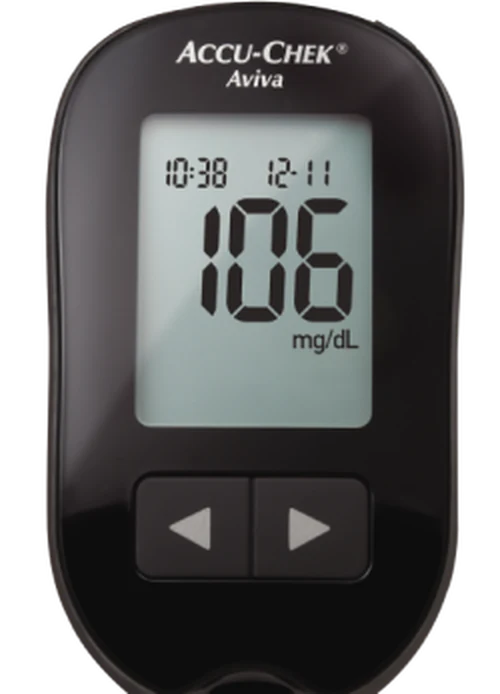
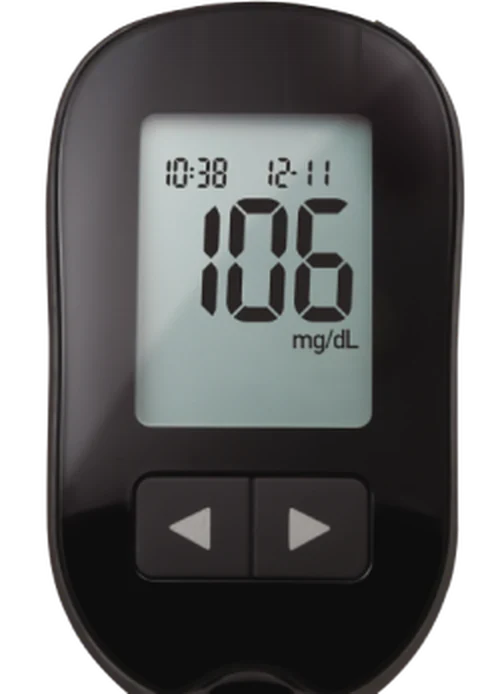
Einsatz-Creator 1.3.2: keine Marken mehr sichtbar
- Herstellerlogos und Typenbezeichnungen aus Defi- und BZ-Geraetefoto entfernt
- Elektrode ohne Aufdruck, Alkoholtupfer als neutrale Verpackung
- Medikamente mit Wirkstoffnamen statt Handelsnamen, Zervikalstuetze statt
  Stifneck, Formschiene statt SAM Splint, Bohrsystem statt EZ-IO

Claude-Session: https://claude.ai/code/session_01E8N9uzoQtQbX4MZMTftENU

Changed region(s): [[0.36, 0.0605, 0.69, 0.1513]]

diff --git a/Nordverband/live-creator/einsatz_creator/html/app.js b/Nordverband/live-creator/einsatz_creator/html/app.js
@@ -1935,14 +1935,14 @@ function ekgPaper(ctx, W, H) {
     for (let y = 0; y <= H; y += 5) { ctx.strokeStyle = y % 25 === 0 ? 'rgba(220, 70, 70, 0.45)' : 'rgba(230, 120, 120, 0.18)'; ctx.lineWidth = y % 25 === 0 ? 1 : 0.6; ctx.beginPath(); ctx.moveTo(0, y); ctx.lineTo(W, y); ctx.stroke(); }
 }
 
-/* Ergebnis: Rhythmus auf dem corpuls3-Bildschirm, beim 12-Kanal zusaetzlich der Ausdruck */
+/* Ergebnis: Rhythmus auf dem Monitor/Defibrillator, beim 12-Kanal zusaetzlich der Ausdruck */
 function showEkgResult(body, d, twelve) {
     if (!d || !d.ekg) return;
     const ekg = d.ekg, m = d.monitor || {};
     const hf = ekg.hf || m.hf || 0;
     body.innerHTML = `<div class="ekgresult ${twelve ? 'is-12' : ''}">
-        <div class="lifepak"><img src="img/corpuls.webp" alt="corpuls3">
-            <div class="lifepak__screen">
+        <div class="defimon"><img src="img/defi.webp" alt="Monitor/Defibrillator">
+            <div class="defimon__screen">
                 <div class="lp__top"><span>${esc(d.name || 'Patient')}</span><span>${new Date().toLocaleTimeString('de-DE', { hour: '2-digit', minute: '2-digit' })}</span></div>
                 <div class="lp__row"><div class="lp__lead">II</div><canvas width="300" height="78"></canvas>
                     <div class="lp__val lp__val--hf"><small>HF</small><b>${hf || '---'}</b></div></div>
@@ -1955,8 +1955,8 @@ function showEkgResult(body, d, twelve) {
         ${twelve ? `<div class="ekgprint"><canvas width="1000" height="380"></canvas>
             <div class="ekgprint__foot">25 mm/s · 10 mm/mV · ${esc(ekg.label)}${hf ? ` · HF ${hf}/min` : ''}</div></div>` : ''}
     </div>`;
-    // Live-Kurve auf dem corpuls3
-    const c = $('.lifepak canvas', body), ctx = c.getContext('2d');
+    // Live-Kurve auf dem Monitor
+    const c = $('.defimon canvas', body), ctx = c.getContext('2d');
     const kind = ekg.wave || 'sinus';
     let x = 0, ph = 0, prev = null, last = performance.now();
     const loop = (t) => {
@@ -2011,7 +2011,7 @@ function gameBz(body) {
     body.innerHTML = `<p class="dim" id="gStep"></p>
         <div class="bzwrap">
             <div class="figwrap figwrap--photo figwrap--hand">${photoSvg(PHOTO.hand, `${defs}<g id="gMarks"></g>`, '40 0 600 640')}</div>
-            <div class="bzmeter"><img src="img/bzmeter.webp" alt="Accu-Chek Aviva">
+            <div class="bzmeter"><img src="img/bzmeter.webp" alt="Blutzuckermessgeraet">
                 <div class="bzmeter__lcd"><div class="bzmeter__val" id="gScreen"></div><div class="bzmeter__unit" id="gUnit"></div>
                     <div class="bzmeter__time"><span>${new Date().toLocaleTimeString('de-DE', { hour: '2-digit', minute: '2-digit' })}</span><span>${new Date().toLocaleDateString('de-DE', { day: '2-digit', month: '2-digit' }).replace(/\.$/, '')}</span></div></div></div>
         </div>

diff --git a/Nordverband/live-creator/einsatz_creator/html/style.css b/Nordverband/live-creator/einsatz_creator/html/style.css
@@ -489,13 +489,13 @@ input[type="number"].input { font-family: var(--mono); }
 .lm-pt.is-wrong { fill: rgba(229, 83, 75, 0.7); stroke: #fff; stroke-dasharray: none; }
 .progress-mini { height: 6px; border-radius: 3px; background: var(--bg-2); overflow: hidden; }
 .progress-mini div { height: 100%; width: 0; background: var(--accent); transition: width .1s linear; }
-/* EKG-Ergebnis: corpuls3 mit Live-Kurve, 12-Kanal-Ausdruck */
+/* EKG-Ergebnis: Monitor/Defibrillator mit Live-Kurve, 12-Kanal-Ausdruck */
 .ekgresult { display: grid; gap: 1rem; justify-items: center; }
-.lifepak { position: relative; width: 480px; }
-.ekgresult:not(.is-12) .lifepak { width: 640px; }
-.lifepak img { width: 100%; display: block; filter: drop-shadow(0 8px 14px rgba(0, 0, 0, 0.5)); }
-.lifepak__screen { position: absolute; left: 28.6%; top: 29.6%; width: 34%; height: 36.6%; display: flex; flex-direction: column; gap: 2%; padding: 1.5%; background: #05080a; color: #dfe; font-family: var(--mono); overflow: hidden; font-size: 1.63px; }
-.ekgresult:not(.is-12) .lifepak__screen { font-size: 2.18px; }
+.defimon { position: relative; width: 480px; }
+.ekgresult:not(.is-12) .defimon { width: 640px; }
+.defimon img { width: 100%; display: block; filter: drop-shadow(0 8px 14px rgba(0, 0, 0, 0.5)); }
+.defimon__screen { position: absolute; left: 28.6%; top: 29.6%; width: 34%; height: 36.6%; display: flex; flex-direction: column; gap: 2%; padding: 1.5%; background: #05080a; color: #dfe; font-family: var(--mono); overflow: hidden; font-size: 1.63px; }
+.ekgresult:not(.is-12) .defimon__screen { font-size: 2.18px; }
 .lp__top { display: flex; justify-content: space-between; color: #9aa; font-size: 4.2em; }
 .lp__row { display: flex; align-items: center; gap: 2%; }
 .lp__row canvas { flex: 1; min-width: 0; height: 26em; }

diff --git a/Nordverband/live-creator/einsatz_creator/README.md b/Nordverband/live-creator/einsatz_creator/README.md
@@ -104,14 +104,14 @@ Feuer/Rauch lassen sich an Fahrzeuge/Objekte koppeln, NPCs in Fahrzeuge setzen (
 ### Medizinische Versorgung (aus nv_medicDispatches übernommen)
 ox_target am Patienten → **Medizinische Versorgung** (ox_lib-Menü, nur Rollen aus `Config.Medical.roles`):
 - **Gespräch und Anamnese:** Ansprechen, Was ist passiert, Schmerzen, Name, Krankenkasse, **SAMPLER** (Symptome, Allergien, Medikamente, Patientengeschichte, letzte Mahlzeit, Ereignis, Risikofaktoren) und **OPQRST** (Beginn, Provokation, Qualität, Ausstrahlung, Stärke, Dauer) – Antworten je Meldebild, sonst zufällig
-- **Diagnostik:** RR, HF, SpO2, Temperatur, Pupillen, GCS, Atemfrequenz, **BZ** (Minispiel mit echten Fotos von Hand, Alkoholtupfer, Stechhilfe und Accu-Chek-Messgerät: Stichstelle seitlich an der Fingerkuppe wählen, Tupfer reiben, trocknen lassen, stechen, ersten Tropfen abwischen, Teststreifen an den Tropfen – das Messgerät zeigt den Wert), **EKG 4-Kanal** und **12-Kanal** (Minispiel: echte Klebeelektroden mit IEC-Farbclips frei auf ein Oberkörperfoto kleben, ohne Markierungen; danach zeigt ein corpuls3 den Rhythmus live, beim 12-Kanal kommt der Ausdruck mit allen 12 Ableitungen dazu; ST-Hebungen nur im 12-Kanal sichtbar), **Auskultation**, **Rekapillarisierungszeit**, **Hautbefund**
+- **Diagnostik:** RR, HF, SpO2, Temperatur, Pupillen, GCS, Atemfrequenz, **BZ** (Minispiel mit echten Fotos von Hand, Alkoholtupfer, Stechhilfe und Messgerät: Stichstelle seitlich an der Fingerkuppe wählen, Tupfer reiben, trocknen lassen, stechen, ersten Tropfen abwischen, Teststreifen an den Tropfen – das Messgerät zeigt den Wert), **EKG 4-Kanal** und **12-Kanal** (Minispiel: echte Klebeelektroden mit IEC-Farbclips frei auf ein Oberkörperfoto kleben, ohne Markierungen; danach zeigt ein Monitor/Defibrillator den Rhythmus live, beim 12-Kanal kommt der Ausdruck mit allen 12 Ableitungen dazu; ST-Hebungen nur im 12-Kanal sichtbar), **Auskultation**, **Rekapillarisierungszeit**, **Hautbefund**
 - **Monitor:** Vitalwerte und laufende EKG-Kurve (Sinus, Tachy/Brady, Vorhofflimmern, STEMI, Kammerflimmern, Asystolie) am Bildschirmrand
 - **Maßnahmen mit Minispielen:** Venenzugang (Timing), **intraossärer Zugang** (Punktionsstelle wählen, bohren, beim Widerstandsverlust loslassen), Larynxtubus, Beutel-Masken-Beatmung, **Thoraxentlastungspunktion** (richtige Landmarke und Seite am Oberkörperfoto wählen), **Herzdruckmassage** (kein Minispiel – die Einsatzkraft führt die CPR-Animation mit Fortschrittsbalken aus, Dauer in `Config.Medical.cpr`), **Defibrillation** (nur bei schockbarem Rhythmus), Wärmeerhalt, Oberkörperhochlagerung
 - **Sauerstoff** 2/4/6/8 l (SpO2 + 0,8 je Liter)
-- **Medikamente/Infusionen** u. a. Akrinor, Ebrantil, Atropin, Suprarenin, ASS, Heparin, Nitro (Kontraindikation RR < 110), Amiodaron, Furosemid, Morphin, Fentanyl, Ketanest, Midazolam, Naloxon, Glucagon i.m., Salbutamol/Atrovent vernebelt, Prednisolon, G20, G5, Jonosteril – i.v.-Medikamente nur mit Zugang (i.v. oder i.o.), Spray/vernebelt/i.m. ohne Zugang; Wirkung erst bei erneuter Messung sichtbar
+- **Medikamente/Infusionen** u. a. Cafedrin/Theodrenalin, Urapidil, Atropin, Adrenalin, ASS, Heparin, Nitro (Kontraindikation RR < 110), Amiodaron, Furosemid, Morphin, Fentanyl, Esketamin, Midazolam, Naloxon, Glucagon i.m., Salbutamol/Ipratropiumbromid vernebelt, Prednisolon, G20, G5, Vollelektrolytlösung (nur Wirkstoff- bzw. Gattungsnamen, keine Markennamen) – i.v.-Medikamente nur mit Zugang (i.v. oder i.o.), Spray/vernebelt/i.m. ohne Zugang; Wirkung erst bei erneuter Messung sichtbar
 - **Neue Meldebilder:** Akutes Koronarsyndrom (STEMI, instabile AP), Spannungspneumothorax (rechts/links), Reanimation mit Kammerflimmern oder Asystolie (ROSC nach Herzdruckmassage, Defibrillation, Zugang, Adrenalin und Atemwegssicherung)
 - **Pflichtmaßnahmen je Meldebild** (z. B. STEMI: 12-Kanal-EKG, Zugang, ASS, Heparin, OPQRST, Lagerung) – erscheinen unter „Offene Maßnahmen“
-- **Bodycheck** über 16 Körperregionen → Pflaster, Verband, Schiene, Stifneck (SHT), Beckenschlinge (Becken instabil)
+- **Bodycheck** über 16 Körperregionen → Pflaster, Verband, Schiene, Zervikalstütze (SHT), Beckenschlinge (Becken instabil)
 - **Transport:** besprechen, auf die Trage legen (`rda_stretcher`, `c5m-stretcher`), kein Transport nötig
 - Status **„versorgt / transportbereit“** erst, wenn alle offenen Maßnahmen erledigt sind (`Config.Medical.requireCompleteCare`)
 
@@ -277,4 +277,4 @@ EmergencyDispatch-Notrufe, Zufallseinsätze und Rechte durch.
 
 ## Bildquellen
 
-Die Fotos der Minispiele liegen in `html/img/` und stehen größtenteils unter freien Lizenzen (CC BY / CC BY-SA, Wikimedia Commons); corpuls3 und Accu-Chek sind vom Server bereitgestellte Produktfotos. Details: `html/img/QUELLEN.md`.
+Die Fotos der Minispiele liegen in `html/img/` und zeigen keine Markenlogos oder Markennamen (Logos und Aufdrucke wurden entfernt). Herkunft und Lizenzen: `html/img/QUELLEN.md`.

diff --git a/Nordverband/live-creator/einsatz_creator/html/img/QUELLEN.md b/Nordverband/live-creator/einsatz_creator/html/img/QUELLEN.md
@@ -9,14 +9,19 @@ Die bearbeiteten Dateien stehen unter derselben Lizenz wie das jeweilige Origina
 | `torso.webp` | [Half-naked male.jpg](https://commons.wikimedia.org/wiki/File:Half-naked_male.jpg) | Daryl Washington (Bearbeitung: Bebop7) | [CC BY 2.0](https://creativecommons.org/licenses/by/2.0) |
 | `hand.webp` | [Right Hand Palm.png](https://commons.wikimedia.org/wiki/File:Right_Hand_Palm.png) | Eyefive45 | [CC BY-SA 4.0](https://creativecommons.org/licenses/by-sa/4.0) |
 | `lancet.webp` | [(20250417) Blood glucose meter 05.jpg](https://commons.wikimedia.org/wiki/File:(20250417)_Blood_glucose_meter_05.jpg) | Roy Zuo | [CC BY-SA 4.0](https://creativecommons.org/licenses/by-sa/4.0) |
-| `alcpad.webp` | [CSD Alcohol Prep Pad 1pcs 20200711.jpg](https://commons.wikimedia.org/wiki/File:CSD_Alcohol_Prep_Pad_1pcs_20200711.jpg) | Solomon203 | [CC BY-SA 4.0](https://creativecommons.org/licenses/by-sa/4.0) |
-| `electrode.webp` | [Electrode-skintact.jpg](https://commons.wikimedia.org/wiki/File:Electrode-skintact.jpg) | Sinikka Halme | [CC BY-SA 4.0](https://creativecommons.org/licenses/by-sa/4.0) |
+| `electrode.webp` | [Electrode-skintact.jpg](https://commons.wikimedia.org/wiki/File:Electrode-skintact.jpg) (Aufdruck entfernt) | Sinikka Halme | [CC BY-SA 4.0](https://creativecommons.org/licenses/by-sa/4.0) |
 
-## Vom Serverbetreiber bereitgestellt
+## Vom Serverbetreiber bereitgestellt (Logos entfernt)
 
 | Datei | Inhalt |
 |---|---|
-| `corpuls.webp` | corpuls3 (EKG-/Defibrillator-Anzeige), vom Server bereitgestelltes Produktfoto |
-| `bzmeter.webp` | Accu-Chek Aviva (Blutzuckermessgerät), vom Server bereitgestelltes Produktfoto |
+| `defi.webp` | Monitor/Defibrillator, Produktfoto vom Serverbetreiber; Herstellerlogos und Typenbezeichnung entfernt |
+| `bzmeter.webp` | Blutzuckermessgeraet, Produktfoto vom Serverbetreiber; Herstellerschriftzug entfernt |
 
-Für diese beiden Produktfotos liegen keine freien Lizenzangaben vor. Die Klärung der Nutzungsrechte liegt beim Serverbetreiber.
+Für diese beiden Fotos liegen keine freien Lizenzangaben vor. Die Klärung der Nutzungsrechte liegt beim Serverbetreiber.
+
+## Selbst erstellt
+
+| Datei | Inhalt |
+|---|---|
+| `alcpad.webp` | neutrale Alkoholtupfer-Verpackung (generiert, ohne Marke) |
